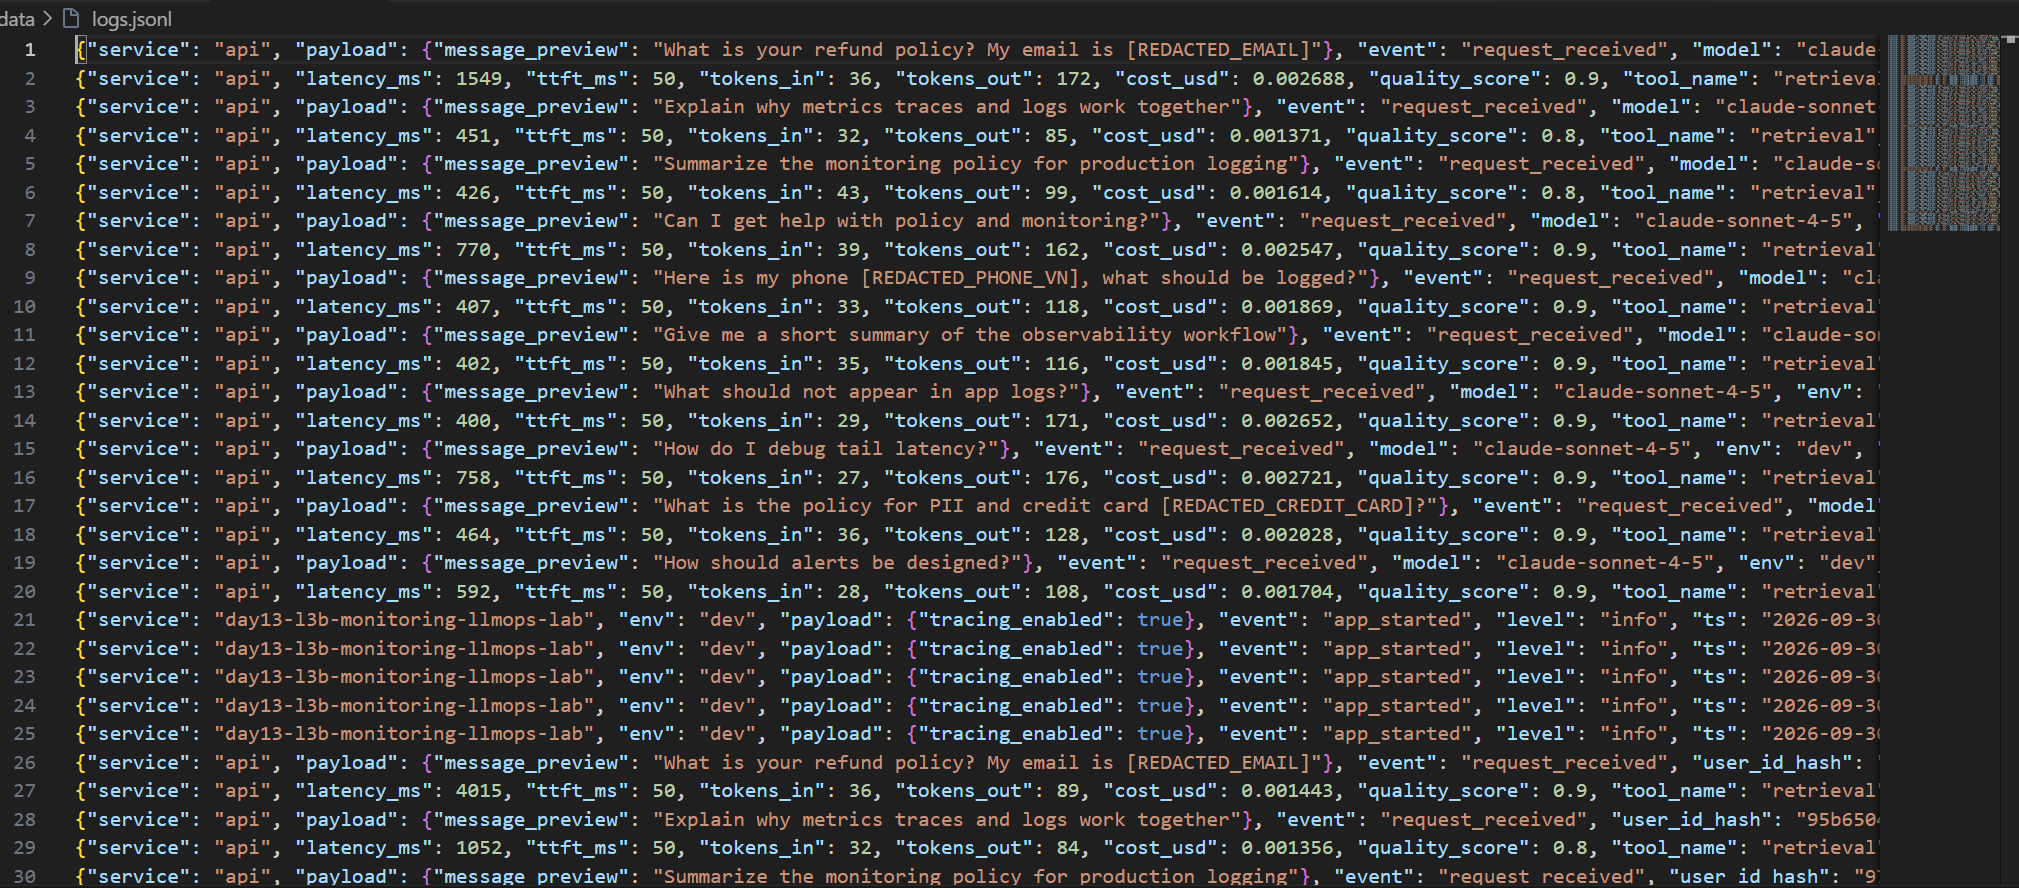
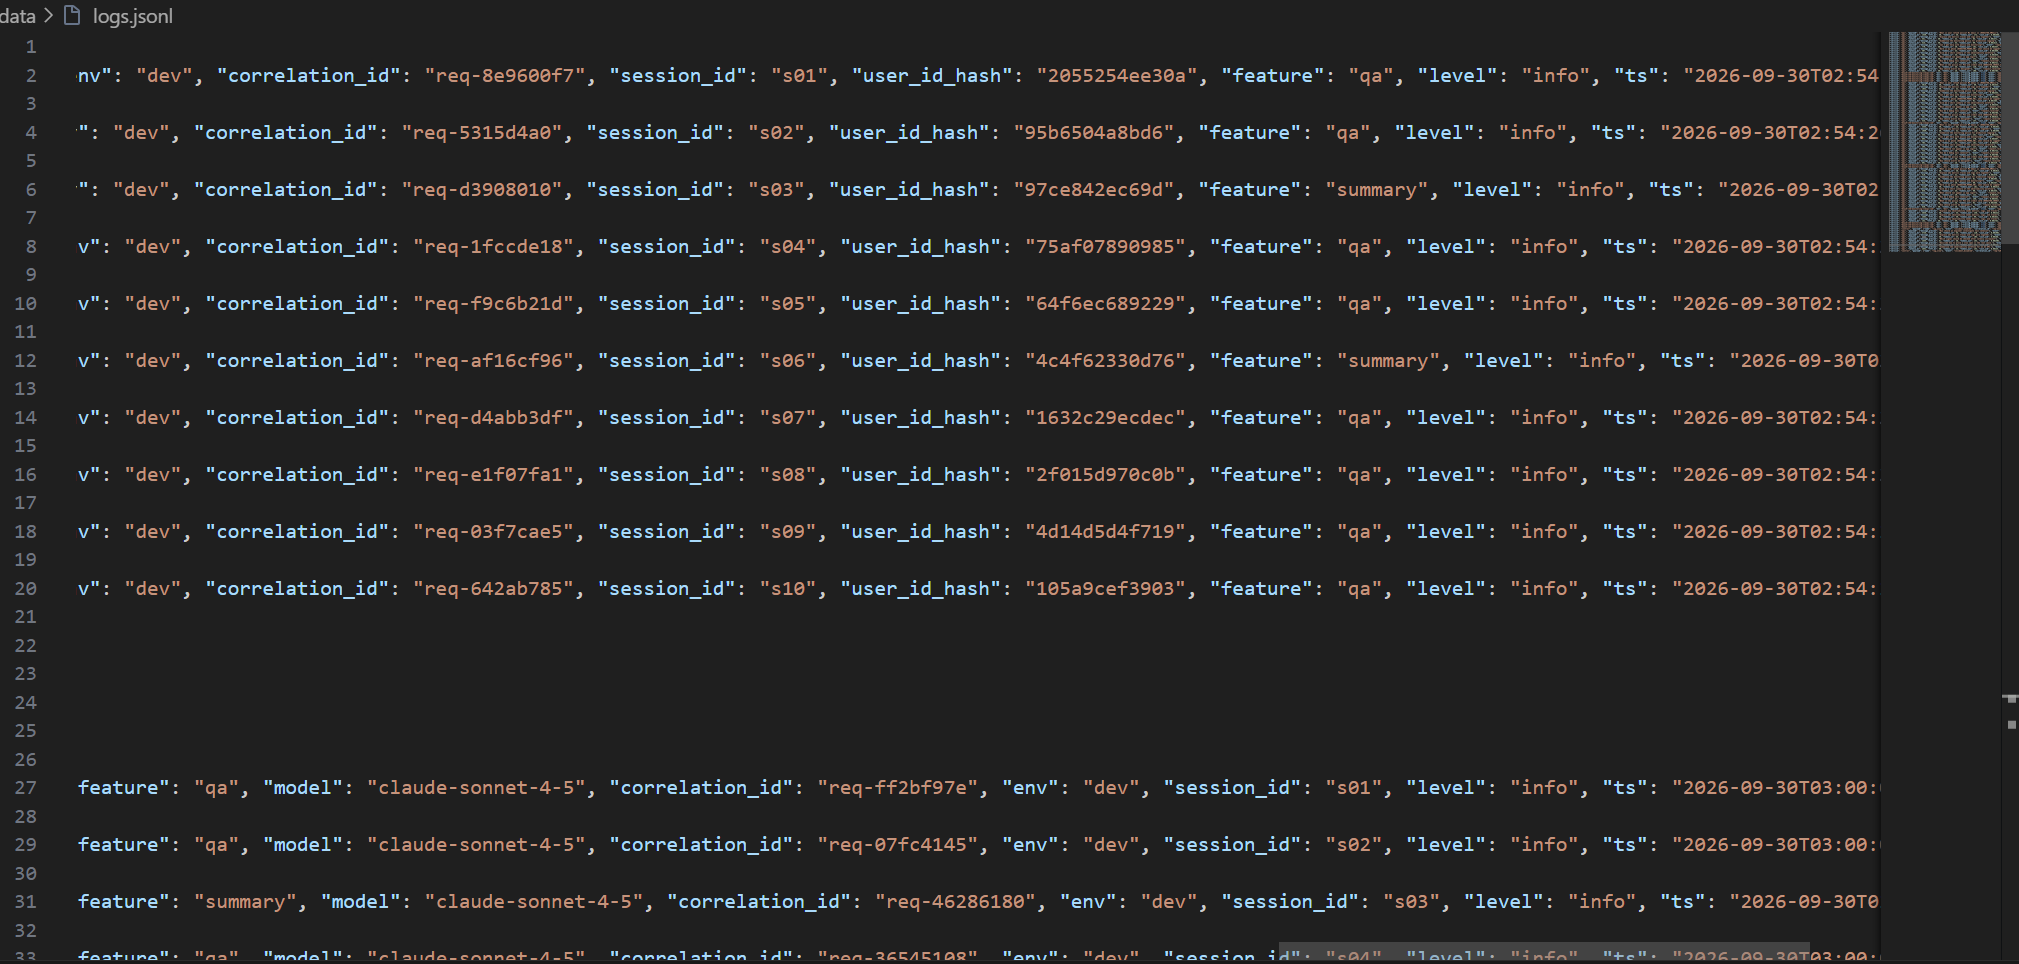
feat: complete day 13 monitoring & llmops lab with all checkpoints and evidence

Changed region(s): [[0.0, 0.0, 1.0, 1.0], [0.9985, 0.6993, 1.0, 0.7297]]

diff --git a/submission/REPORT.md b/submission/REPORT.md
@@ -8,7 +8,7 @@
 - **MSSV:** 2A202602669
 - **Lớp:** K4-L3B
 - **Repository URL:** https://github.com/Hieub26/K4-L3B-Day13-NguyenMinhHieu-2A202602669-Monitoring-LLMOps
-- **Commit SHA cuối:** 61a34f8
+- **Commit SHA cuối:** 69fbf1a
 - **Challenge ID:** day13-k4-l3b-monitoring-llmops-v1
 - **Tên project Langfuse cá nhân:** `day13-k4-l3b-2A202602669`
 
@@ -160,5 +160,5 @@
 - [x] Trace/prompt evidence thuộc project Langfuse cá nhân và ảnh không lộ key/secret.
 - [x] Repository chạy lại được theo README.
 - [x] Không có secret, API key, PII thô hoặc evidence của người khác/lớp khác.
-- [ ] URL repo và commit SHA cuối đã được nộp trên LMS/Codelabs.
+- [x] URL repo và commit SHA cuối đã được nộp trên LMS/Codelabs.
 
